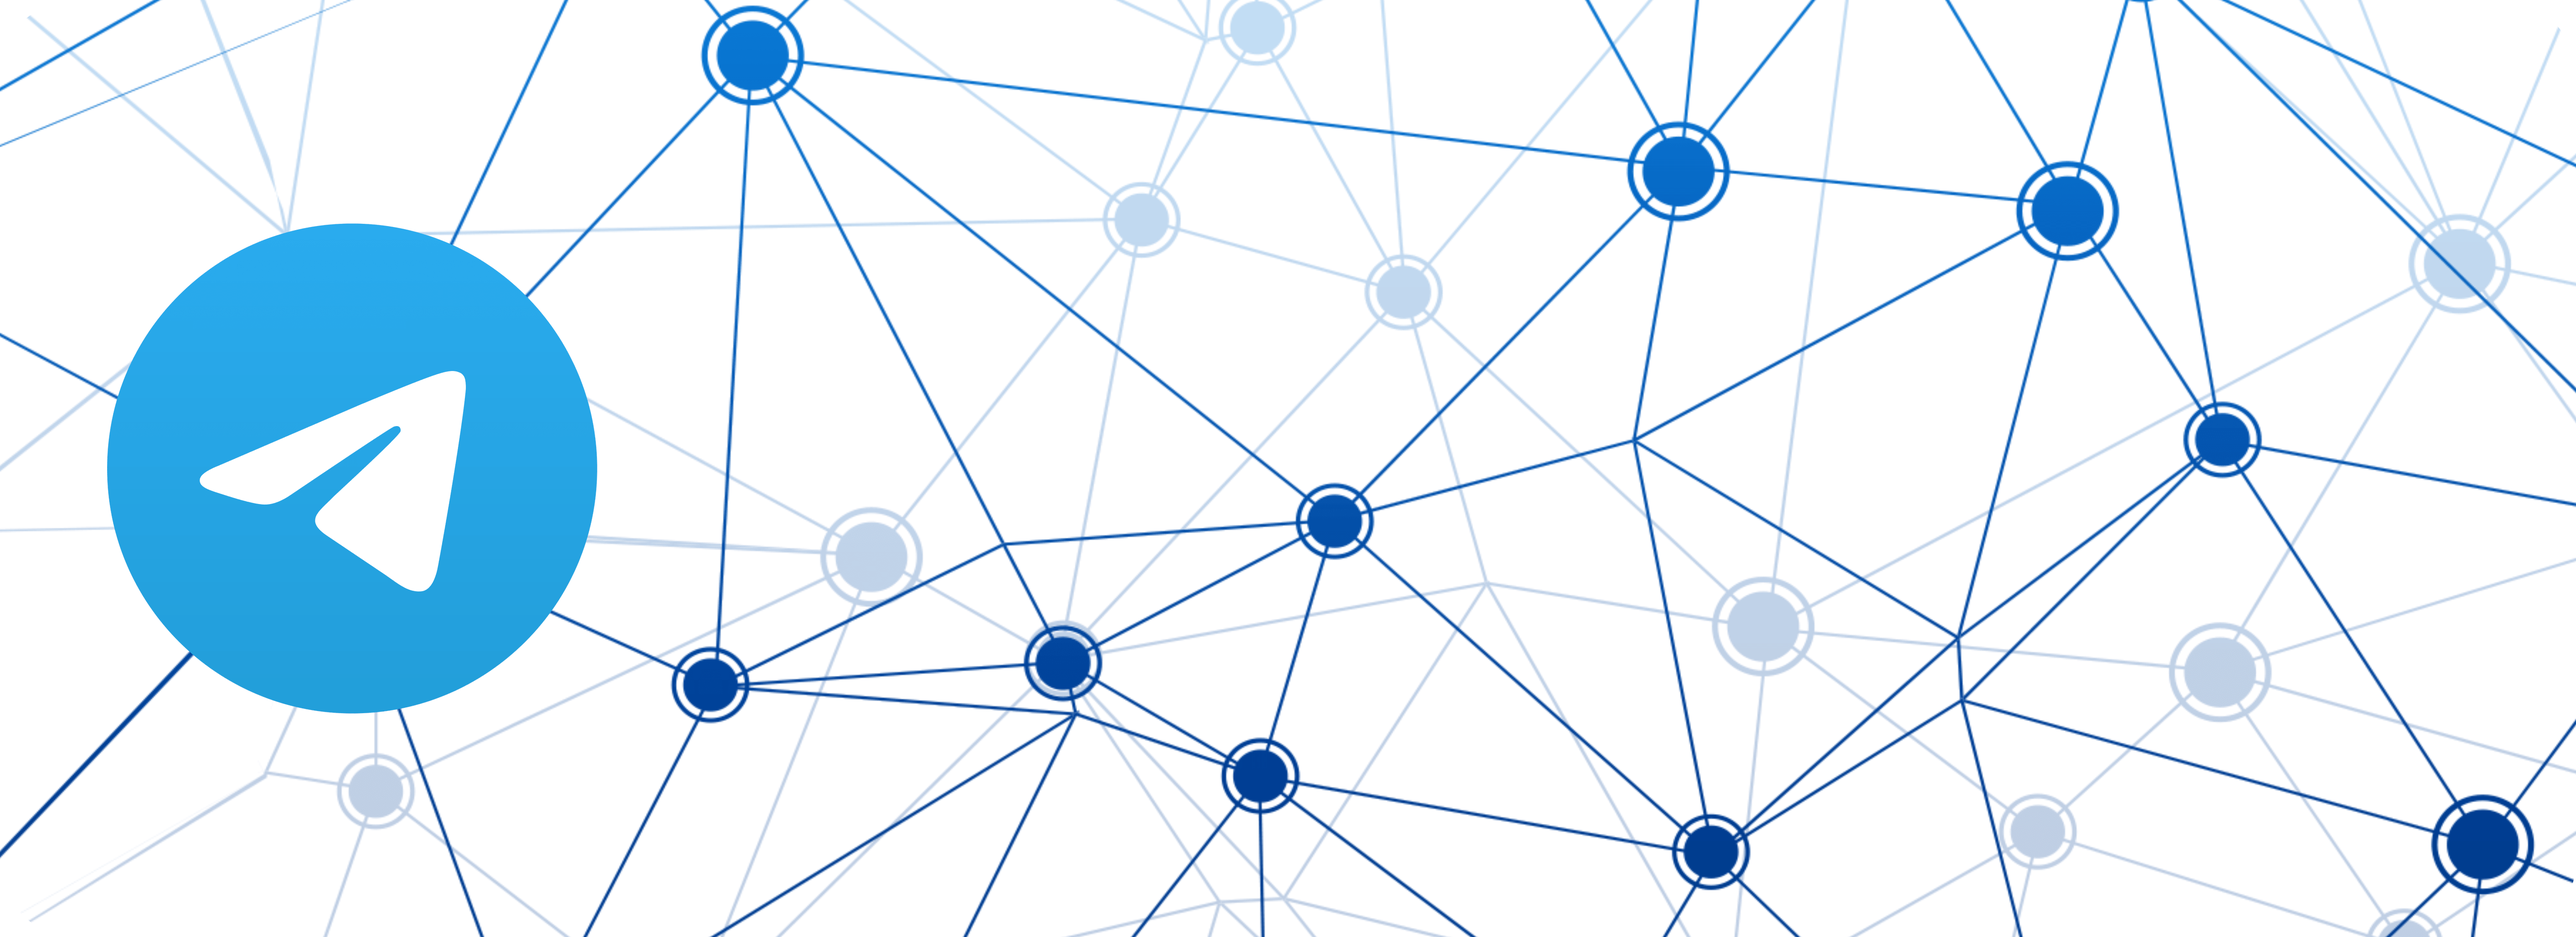
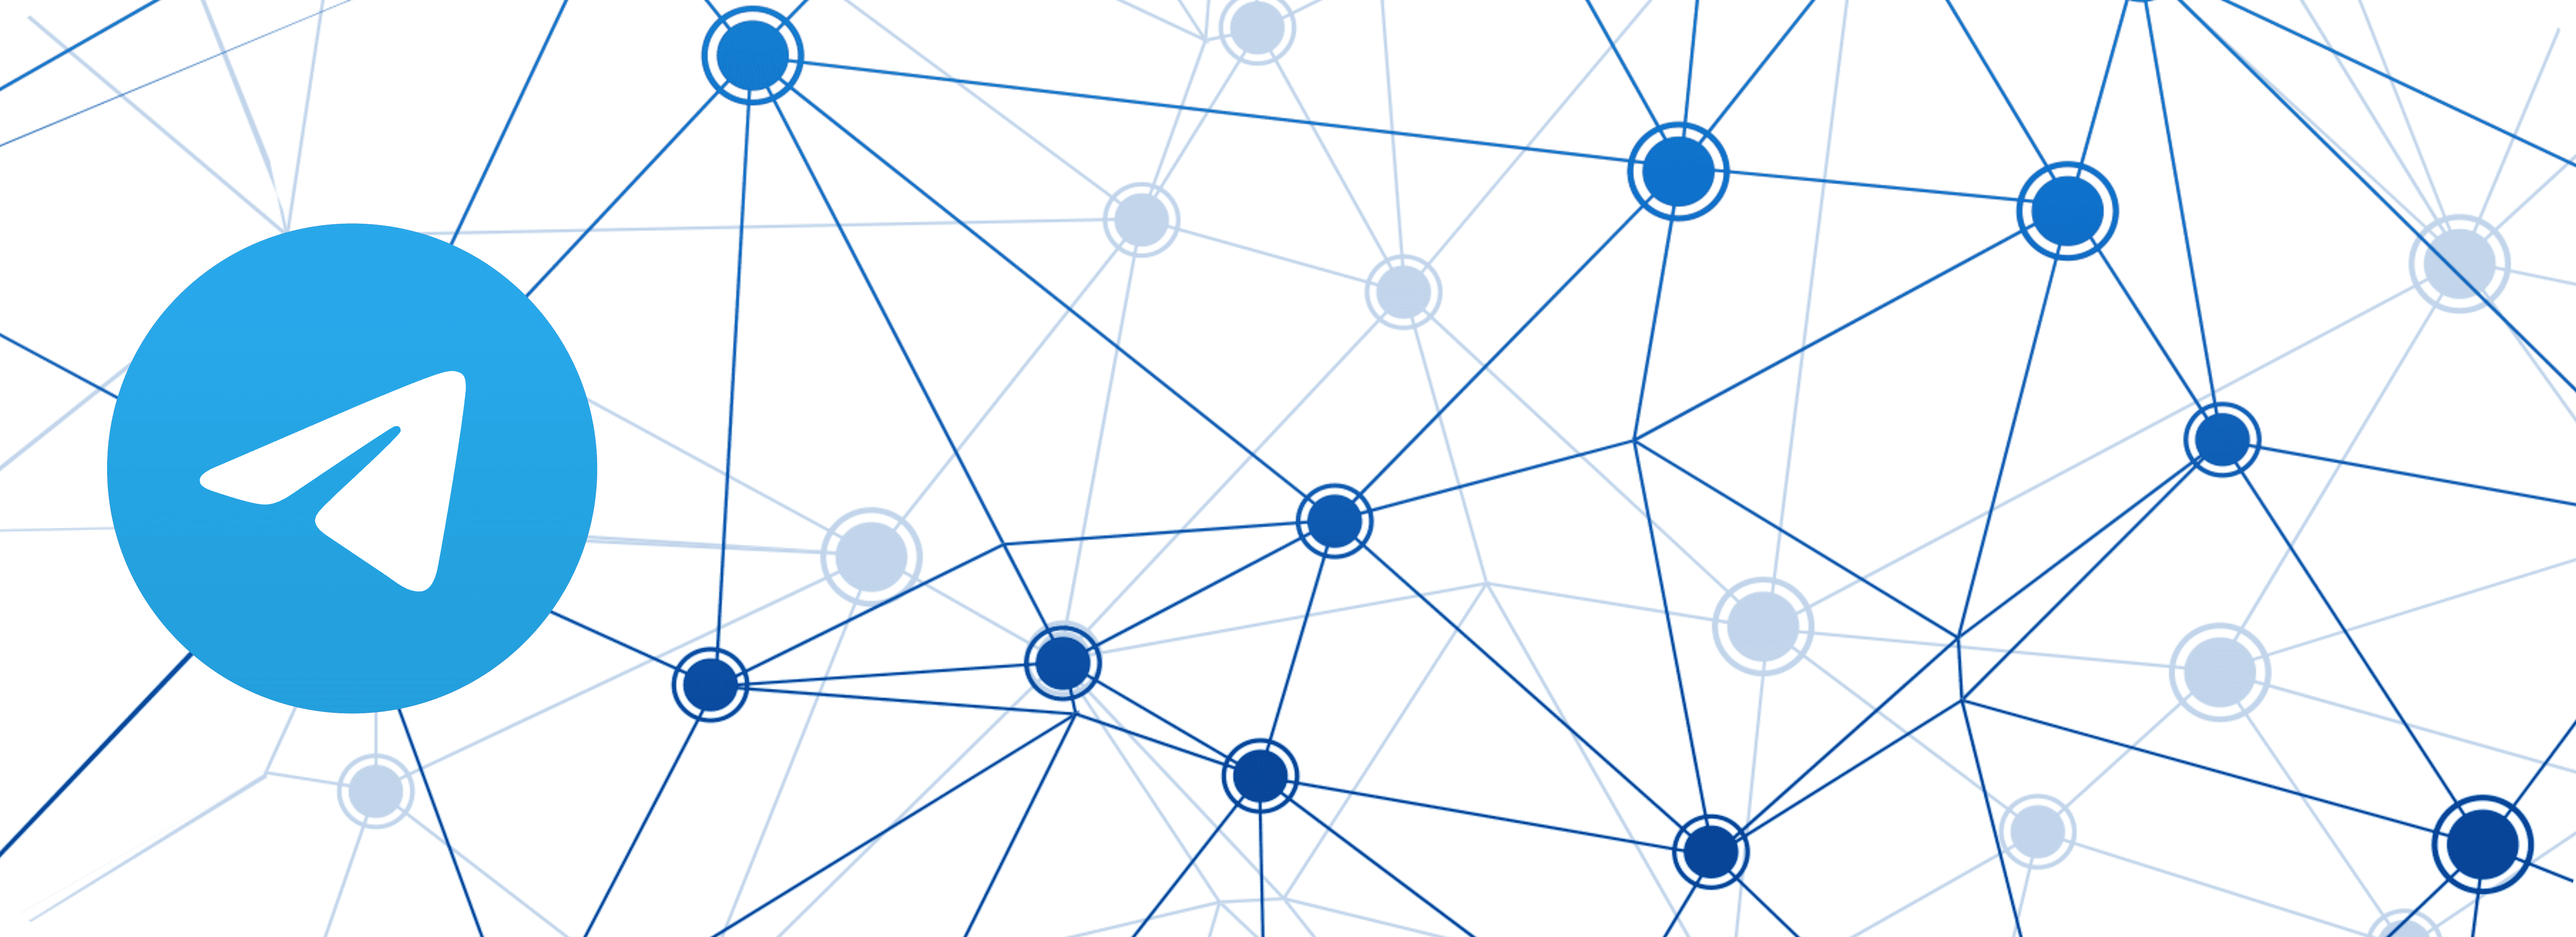
Update some posts about the projects and compress some images

Changed region(s): [[0.2803, 0.0, 0.3114, 0.0934], [0.8408, 0.4669, 0.8719, 0.4981]]

diff --git a/content/proyectos.md b/content/proyectos.md
@@ -1,79 +1,149 @@
 +++
 title = "Proyectos"
-date = 2021-05-12
+date = 2022-01-14
 +++
+
+[comment]: <> (Todo: lux y flux, grafos en teoria, aurocat, lazy loading images, completar PokeClassifier)
+
 
 ## [Perros Covid](https://github.com/mucinoab/)
 ![Perritos](/perros_covid.png "Perros Covid")
-En progreso...
+Sitio web para la recolección, procesamiento y caracterización de muestras por
+PCR de COVID-19 para su posterior uso en el adiestramiento de perros para
+identificar muestras positivas. Parte de un proyecto colaborativo entre la
+[SEDENA](https://www.gob.mx/sedena/) (Secretaría de la Defensa Nacional),
+la [SRE](https://www.gob.mx/sre) (Secretaría de Relaciones Exteriores) y la
+[UNAM](https://www.unam.mx/) (Universidad Nacional Autónoma de México).
+
+
+### Objetivo
+
+El objetivo principal de la página es ayudar a agilizar el proceso de
+entrenamiento de los perros, esto al facilitar el registro de las muestras
+utilizadas, las respuestas dadas durante las pruebas, la identidad del perro
+entrenando, el resultado obtenido en cada sesión y de igual manera mostrar
+estadísticas generales respecto al progreso de un perro en específico y en
+general de todos los caninos registrados.
+
+
+### Muestras
+
+Una muestra es el resultado de la prueba PCR más algunos otros datos relevantes
+del individuo en el que se realizó la prueba, como su edad, sexo,
+comorbilidades, etc. Esta información adicional es relevante pues puede ayudar
+a detectar sesgos o patrones dentro de las muestras seleccionadas por los
+perros en los entrenamientos (ej. los falsos positivos suelen ser muestras de
+personas que toman _x_ medicamento).
+
+Las pruebas son almacenadas y consultadas directamente en el sitio web.
+
+
+### Tech Stack 
+
+El frontend consta principalmente del stack básico: HTML, CSS y para añadir
+interactividad se utiliza [TypeScript](https://www.typescriptlang.org/) y un
+par de bibliotecas de JavaScript: [Chart.js](https://www.chartjs.org/),
+[Moment.js](https://momentjs.com/), [Selectize.js](https://selectize.dev/) y un
+poco de [JQuery](https://jquery.com/). El backend fue construido completamente
+en [Rust](https://www.rust-lang.org/) utilizando el framework
+[Rocket](https://rocket.rs/). Los datos se almacenan en una instancia de 
+[PostgreSQL](https://www.postgresql.org/).
+
+_Lamentablemente no cuento con la autorización para hacer público  el código
+fuente ni el enlace a la página.  : (_
+
 
 -------------------------------------------------------------------------------
 ## [Reporstat](https://github.com/mucinoab/Reporstat)
 ![Julia](/julia_mapa.png "Julia lang mapa")
 
+Es un [paquete](https://julialang.org/packages/) para el lenguaje de
+programación [Julia](https://julialang.org/) que tiene como objetivo agilizar
+la consulta de información poblacional de instituciones como el
+[INEGI](https://www.inegi.org.mx/), el [CONAPO](https://www.gob.mx/conapo) y el
+[CONEVAL](https://www.coneval.org.mx/paginas/principal.aspx), ésta segregada
+por municipios y estados para que, en conjunto con datos de cualquier índole,
+se facilite la realización de análisis y reportes estadísticos al usuario.
+
 [Documentación](https://mucinoab.github.io/Reporstat/dev/)   
 
-En progreso...
-
 <!-- more -->
+
 -------------------------------------------------------------------------------
 ## [PokeClassifier](https://github.com/mucinoab/Poke-Classifier)
-![Poke](/poke_page.png "SS de método de Lagrange.")
+![Poke](/poke_page.png "SS de bot y logo de pokedex")
 
-En progreso...
+Un bot de telegram que trata de identificar pokémon en imágenes utilizando _deep
+learning._
 
 -------------------------------------------------------------------------------
 ## [Métodos Numéricos II](https://metodos-dos.herokuapp.com/)
 ![Métodos](/metodos.png "SS de método de Lagrange.")
 
-Página web donde se realizan simples implementaciones y su respectivas representaciones gráficas de diversos métodos numéricos para la resolución de ecuaciones, integración e interpolación numérica.
+Página web donde se realizan simples implementaciones y su respectivas
+representaciones gráficas de diversos métodos numéricos para la resolución de
+ecuaciones, integración e interpolación numérica.
 
-Se implementa el método de Newton, Regla trapezoidal, Punto fijo, Interpolación Polinómica de Lagrange, Diferencias divididas
-, Interpolación de Newton, entre otros.
+Se implementa el método de Newton, Regla trapezoidal, Punto fijo, Interpolación
+Polinómica de Lagrange, Diferencias divididas , Interpolación de Newton, entre
+otros.
 
-Hospedada en [Heroku](https://www.heroku.com/what#) con backend en Python ([Django](https://www.djangoproject.com)). Código fuente [aquí.](https://github.com/mucinoab/MII)
+Hospedada en [Heroku](https://www.heroku.com/what#) con backend en Python
+([Django](https://www.djangoproject.com)). Código fuente
+[aquí.](https://github.com/mucinoab/MII)
 
 -------------------------------------------------------------------------------
 ## [Telegram ChatBot](https://github.com/mucinoab/SistemedicBotRust)
 ![Bot](/bot.png "Red y logo")
 
-Dos implementaciones de un bot que hace uso del API de [Telegram](https://telegram.org/) 
-(lamentablemente Whatsapp y [Signal](https://www.signal.org/) no tienen un API razonable).
+Dos implementaciones de un bot que hace uso del API de
+[Telegram](https://telegram.org/) (lamentablemente Whatsapp y
+[Signal](https://www.signal.org/) no tienen un API razonable).
 
 La [primera](https://github.com/mucinoab/SistemedicBot) implementación del bot
-esta hecha en [Python](https://www.python.org/), corre en [Heroku](https://www.heroku.com/what#) sobre [Docker](https://www.docker.com/)
-y cuenta con una base de datos relacional ([PostgreSQL](https://www.postgresql.org/)) que
-le proporciona toda la información necesaria.   
+esta hecha en [Python](https://www.python.org/), corre en
+[Heroku](https://www.heroku.com/what#) sobre [Docker](https://www.docker.com/)
+y cuenta con una base de datos relacional
+([PostgreSQL](https://www.postgresql.org/)) que le proporciona toda la
+información necesaria.   
 
 Desgraciadamente el desempeño de esta primera implementación deja mucho que
 desear, dando tiempos de respuesta al cliente de **~.5 _segundo_**, por lo que
 decido mejorar esos tiempos de repuesta al crear una implementación con un
 enfoque distinto.   
 
-En la [segunda](https://github.com/mucinoab/SistemedicBotRust) implementación se
-elige Rust como lenguaje principal pues es conocido por su alto desempeño y
-ademas puede ser compilado para la arquitectura de la máquina que en la
-que se piensa _hostear_ el bot, [ARM](https://es.wikipedia.org/wiki/Arquitectura_ARM) y 
-[Raspberry Pi](https://en.wikipedia.org/wiki/Raspberry_Pi). Para la base de
-datos se utiliza igualmente PostgreSQL pero esta vez corriendo de manera directa
-en el sistema operativo.  
+En la [segunda](https://github.com/mucinoab/SistemedicBotRust) implementación
+se elige Rust como lenguaje principal pues es conocido por su alto desempeño y
+ademas puede ser compilado para la arquitectura de la máquina que en la que se
+piensa _hostear_ el bot, [ARM](https://es.wikipedia.org/wiki/Arquitectura_ARM)
+y [Raspberry Pi](https://en.wikipedia.org/wiki/Raspberry_Pi). Para la base de
+datos se utiliza igualmente PostgreSQL pero esta vez corriendo de manera
+directa en el sistema operativo.  
 
-El resultado final de esta implementación es un bot que da respuestas en **~300 _µs_**, 
-gracias al crate [tokio](https://tokio.rs/) y un cuidadoso uso de recursos.
+El resultado final de esta implementación es un bot que da respuestas en **~300
+_µs_**, gracias al crate [tokio](https://tokio.rs/) y un cuidadoso uso de
+recursos.
 
 -------------------------------------------------------------------------------
 ## [Gráfos en Teoría](https://grafosenteoria.herokuapp.com/)
 ![Grafos](/grafos.png "SS de grafo.")
 
-Página web en la que se pueden crear grafos interactivamente mediante la biblioteca de JavaScript [D3](https://d3js.org/) y arroja información sobre estos, esencialmente su matriz de incidencia y/o adyacencia.
+Página web en la que se pueden crear grafos interactivamente mediante la
+biblioteca de JavaScript [D3](https://d3js.org/) y arroja información sobre
+estos, esencialmente su matriz de incidencia y/o adyacencia.
 
-Hosteada en [Heroku](https://www.heroku.com/what#) con backend en Python ([Django](https://www.djangoproject.com/)). Los recursos utilizados se pueden encontrar [aquí.](https://github.com/mucinoab/TG)
+Hosteada en [Heroku](https://www.heroku.com/what#) con backend en Python
+([Django](https://www.djangoproject.com/)). Los recursos utilizados se pueden
+encontrar [aquí.](https://github.com/mucinoab/TG)
 
 -------------------------------------------------------------------------------
 ## [Compiladores de Brainfuck](https://github.com/mucinoab/BrainFCompiler-LLVM)
 ![Compiler](/compiler.png "LLVM y Ferris")
 
-Dos compiladores del lenguaje de programación [Brainfuck](https://en.wikipedia.org/wiki/Brainfuck), el cual es [_Turing-complete_](https://en.wikipedia.org/wiki/Turing_completeness) y se compone de solo ocho comandos.
+Dos compiladores del lenguaje de programación
+[Brainfuck](https://en.wikipedia.org/wiki/Brainfuck), el cual es
+[_Turing-complete_](https://en.wikipedia.org/wiki/Turing_completeness) y se
+compone de solo ocho comandos.
 
 | + | - | [ | ] | > | < | , | . |
 |---|---|---|---|---|---|---|---|     
@@ -84,25 +154,35 @@ Por ejemplo aquí, una implementación del emblemático _Hello World!_.
 +++++++.>.+++.------.--------.>+.>.
 
 El [primero](https://github.com/mucinoab/BrainFCompiler) es una implementación
-que crea un ejecutable al generar instrucciones de lenguaje ensamblador, esto se
-logra al asignar cada instrucción de brainfuck a una serie de instrucciones en _assembly_ , posteriormente las _ensambla_ usando [NASM](https://en.wikipedia.org/wijki/Netwide_Assembler) para finalmente _linkearlas_ con [ld](https://www.gnu.org/software/binutils/).
+que crea un ejecutable al generar instrucciones de lenguaje ensamblador, esto
+se logra al asignar cada instrucción de brainfuck a una serie de instrucciones
+en _assembly_ , posteriormente las _ensambla_ usando
+[NASM](https://en.wikipedia.org/wijki/Netwide_Assembler) para finalmente
+_linkearlas_ con [ld](https://www.gnu.org/software/binutils/).
 
 El [segundo](https://github.com/mucinoab/BrainFCompiler-LLVM) usa el crate
-[Inkwell](https://lib.rs/crates/inkwell), el cual expone el API de [LLVM](https://en.wikipedia.org/wiki/LLVM) que da una interfaz mucho más robusta para crear ejecutables de mayor calidad que hacen uso de las diversas opciones que LLVM ofrece, como agresivas optimizaciones.  
-LLVM crea un archivo [ELF](https://en.wikipedia.org/wiki/Executable_and_Linkable_Format) que se enlaza de manera dinámica usando [Clang](https://en.wikipedia.org/wiki/Clang) o [GCC](https://en.wikipedia.org/wiki/GNU_Compiler_Collection).
+[Inkwell](https://lib.rs/crates/inkwell), el cual expone el API de
+[LLVM](https://en.wikipedia.org/wiki/LLVM) que da una interfaz mucho más
+robusta para crear ejecutables de mayor calidad que hacen uso de las diversas
+opciones que LLVM ofrece, como agresivas optimizaciones.  LLVM crea un archivo
+[ELF](https://en.wikipedia.org/wiki/Executable_and_Linkable_Format) que se
+enlaza de manera dinámica usando [Clang](https://en.wikipedia.org/wiki/Clang) o
+[GCC](https://en.wikipedia.org/wiki/GNU_Compiler_Collection).
 
-Ambos compiladores están hechos con [Rust](https://www.rust-lang.org/) y disponibles en mi [github](https://github.com/mucinoab/) bajo [MIT](https://opensource.org/licenses/MIT).  
+Ambos compiladores están hechos con [Rust](https://www.rust-lang.org/) y
+disponibles en mi [github](https://github.com/mucinoab/) bajo
+[MIT](https://opensource.org/licenses/MIT).  
 
 -------------------------------------------------------------------------------
 ## [Métodos Numéricos I](https://github.com/mucinoab/SM)
 ![Métodos Uno](/MI.png "LLVM y Ferris")
 
-Programa nativo multiplatforma para resolver ecuaciones lineales y no lineales. Implementado en
-C++ utilizando el framework [QT](https://www.qt.io/) para la creación de la
-interfaz gráfica. 
+Programa nativo multiplatforma para resolver ecuaciones lineales y no lineales.
+Implementado en C++ utilizando el framework [QT](https://www.qt.io/) para la
+creación de la interfaz gráfica. 
 
-Se implementa el método de Newton, Gauss, Secante, Doolittle, Bisección, Falsa posición,
-Gauss Jordan, Gauss Seidel, Jacobi, entre otros más. 
+Se implementa el método de Newton, Gauss, Secante, Doolittle, Bisección, Falsa
+posición, Gauss Jordan, Gauss Seidel, Jacobi, entre otros más. 
 
 -------------------------------------------------------------------------------
 ## [Lunar Lander](https://github.com/mucinoab/LunarLanderRs)
@@ -114,6 +194,10 @@ To do...
 ## [Mapa Coroplético](/mapa.html)
 ![Remplazar mapa](/mapac.png "SS de Mapa.")
 
-Mapa coroplético de contagios Covid-19 hecho con Python y el módulo [Folium](https://github.com/python-visualization/folium) que genera un página web interactiva con la biblioteca de JavaScript [Leaflet.](https://leafletjs.com/)
+Mapa coroplético de contagios Covid-19 hecho con Python y el módulo
+[Folium](https://github.com/python-visualization/folium) que genera un página
+web interactiva con la biblioteca de JavaScript
+[Leaflet.](https://leafletjs.com/)
 
-Los recursos y programas utilizados se pueden encontrar [aquí.](https://github.com/mucinoab/mucinoab.github.io/tree/dev/extras/recursos)
+Los recursos y programas utilizados se pueden encontrar
+[aquí.](https://github.com/mucinoab/mucinoab.github.io/tree/dev/extras/recursos)

diff --git a/content/proyectos.en.md b/content/proyectos.en.md
@@ -5,7 +5,8 @@ date = 2021-05-12
 
 ## [Perros Covid](https://github.com/mucinoab/)
 ![Perritos](/perros_covid.png "Perros Covid")
-To Do...
+Work in progress... In the mean time you can read the auto-translated version
+[here.](https://mucinoab-github-io.translate.goog/proyectos/?_x_tr_sl=es&_x_tr_tl=en&_x_tr_hl=es-419&_x_tr_pto=wapp)
 
 -------------------------------------------------------------------------------
 ## [Reporstat](https://github.com/mucinoab/Reporstat)
@@ -13,14 +14,16 @@ To Do...
 
 [Documentation](https://mucinoab.github.io/Reporstat/dev/)  
 
-To Do...
+Work in progress... In the mean time you can read the auto-translated version
+[here.](https://mucinoab-github-io.translate.goog/proyectos/?_x_tr_sl=es&_x_tr_tl=en&_x_tr_hl=es-419&_x_tr_pto=wapp)
 
 <!-- more -->
 -------------------------------------------------------------------------------
 ## [PokeClassifier](https://github.com/mucinoab/Poke-Classifier)
 ![Poke](/poke_page.png "SS de método de Lagrange.")
 
-To Do...
+Work in progress... In the mean time you can read the auto-translated version
+[here.](https://mucinoab-github-io.translate.goog/proyectos/?_x_tr_sl=es&_x_tr_tl=en&_x_tr_hl=es-419&_x_tr_pto=wapp)
 
 -------------------------------------------------------------------------------
 ## [Numerical Methods II](https://metodos-dos.herokuapp.com/)

diff --git a/content/pages/about.en.md b/content/pages/about.en.md
@@ -8,7 +8,7 @@ template = "about.html"
 
 ## - Email [mucinoab@comunidad.unam.mx](mailto:mucinoab@comunidad.unam.mx)
 
-## - Github [mucinoab](https://github.com/mucinoab) 
+## - GitHub [mucinoab](https://github.com/mucinoab) 
 
 ## - LinkedIn [Bruno A. Muciño](https://www.linkedin.com/in/bruno-a-muci%C3%B1o-87774a1a8/) 
 

diff --git a/content/pages/about.md b/content/pages/about.md
@@ -8,7 +8,7 @@ template = "about.html"
 
 ## - Email [mucinoab@comunidad.unam.mx](mailto:mucinoab@comunidad.unam.mx)
 
-## - Github [mucinoab](https://github.com/mucinoab) 
+## - GitHub [mucinoab](https://github.com/mucinoab) 
 
 ## - LinkedIn [Bruno A. Muciño](https://www.linkedin.com/in/bruno-a-muci%C3%B1o-87774a1a8/) 
 
